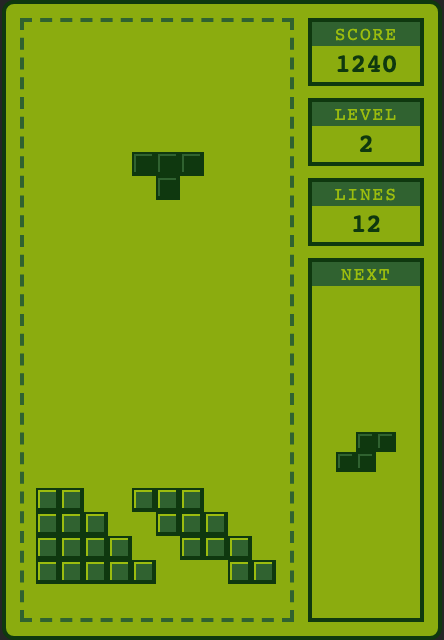
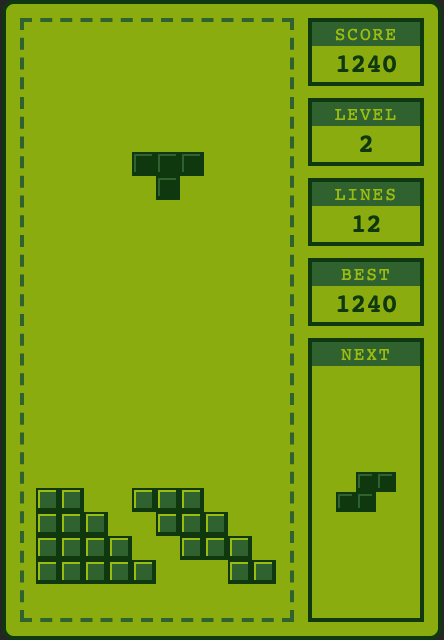
fix: 显示历史最高分并放慢软降

Changed region(s): [[0.6734, 0.4062, 0.9662, 0.5938], [0.7613, 0.6562, 0.9077, 0.8125], [0.8198, 0.4062, 0.8491, 0.4375]]

diff --git a/src/test/engine.test.ts b/src/test/engine.test.ts
@@ -171,7 +171,7 @@ test("新方块出生位置被占则 game over", () => {
   assert.ok(result.state.highScore >= result.state.score);
 });
 
-test("软降每格 +1 分，且使用 50ms 间隔", () => {
+test("软降每格 +1 分，且使用 120ms 间隔", () => {
   let state = running();
   state = {
     ...state,
@@ -180,7 +180,11 @@ test("软降每格 +1 分，且使用 50ms 间隔", () => {
   };
   state = applyInput(state, "softDropOn").state;
 
-  const result = tick(state, 50);
+  // 60ms 还没到一个软降间隔，不应下落。
+  const early = tick(state, 60);
+  assert.equal(early.state.active?.y, 0);
+
+  const result = tick(early.state, 60);
   assert.equal(result.state.active?.y, 1);
   assert.equal(result.state.score, 1);
 });

diff --git a/src/webview/main.ts b/src/webview/main.ts
@@ -39,6 +39,7 @@ const boardWrap = element<HTMLElement>("board-wrap");
 const scoreLabel = element<HTMLElement>("score");
 const levelLabel = element<HTMLElement>("level");
 const linesLabel = element<HTMLElement>("lines");
+const bestLabel = element<HTMLElement>("best");
 
 const CLEAR_ANIMATION_MS = 260;
 
@@ -97,6 +98,7 @@ function updateHud(): void {
   scoreLabel.textContent = String(state.score);
   levelLabel.textContent = String(state.level);
   linesLabel.textContent = String(state.lines);
+  bestLabel.textContent = String(Math.max(highScore, state.highScore));
 }
 
 function handleEvents(events: readonly GameEvent[]): void {

diff --git a/src/game/scoring.ts b/src/game/scoring.ts
@@ -11,9 +11,9 @@ export function levelForLines(lines: number, startLevel: number): number {
   return Math.min(MAX_LEVEL, startLevel + Math.floor(lines / 10));
 }
 
-/** 等级越高下落越快；软降固定 50ms，硬降是瞬时的。 */
+/** 等级越高下落越快；软降固定 120ms，硬降是瞬时的。 */
 export function dropIntervalMs(level: number, softDropping: boolean): number {
-  if (softDropping) return 50;
+  if (softDropping) return 120;
   const clamped = Math.min(MAX_LEVEL, Math.max(1, level));
   return Math.max(80, Math.round(800 * Math.pow(0.85, clamped - 1)));
 }

diff --git a/src/test/scoring.test.ts b/src/test/scoring.test.ts
@@ -20,10 +20,10 @@ test("每十行升一级，封顶 15", () => {
   assert.equal(levelForLines(1000, 1), 15);
 });
 
-test("等级越高下落越快，软降固定 50ms", () => {
+test("等级越高下落越快，软降固定 120ms", () => {
   assert.equal(dropIntervalMs(1, false), 800);
   assert.ok(dropIntervalMs(5, false) < dropIntervalMs(1, false));
   // 0.85^14 会略微高于 80，max(80, …) 只是保底。
   assert.equal(dropIntervalMs(15, false), 82);
-  assert.equal(dropIntervalMs(1, true), 50);
+  assert.equal(dropIntervalMs(1, true), 120);
 });

diff --git a/src/webviewHtml.ts b/src/webviewHtml.ts
@@ -67,6 +67,10 @@ export function buildGameHtml(webview: vscode.Webview, extensionUri: vscode.Uri)
             <div class="stat-label">LINES</div>
             <div class="stat-value" id="lines">0</div>
           </div>
+          <div class="stat-box">
+            <div class="stat-label">BEST</div>
+            <div class="stat-value" id="best">0</div>
+          </div>
           <div class="stat-box next-box">
             <div class="stat-label">NEXT</div>
             <canvas id="next"></canvas>

diff --git a/CHANGELOG.md b/CHANGELOG.md
@@ -1,5 +1,10 @@
 # 更新日志
 
+## 0.4.1
+
+- 信息栏新增 `BEST`，历史最高分重新可见。
+- 软降速度从 50ms/格放慢到 120ms/格，按住下键不再一落到底。
+
 ## 0.4.0
 
 - 新增皮肤切换 `tetris.skin`：
